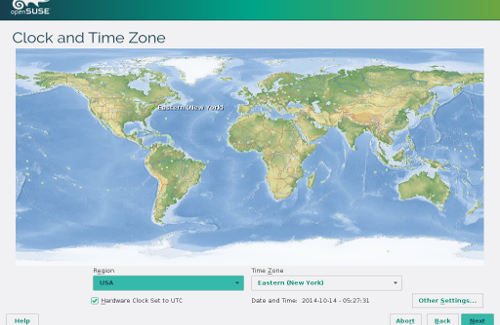
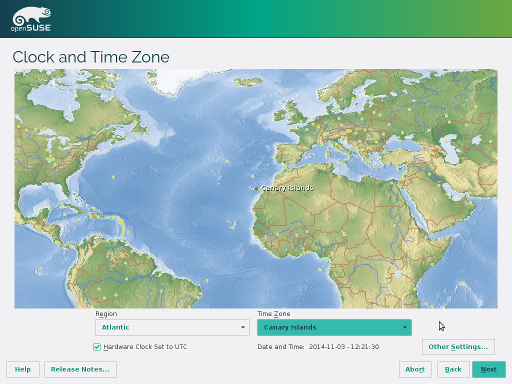
New uncropped screenshots
- 512x384px (coming from 1024x768px)

diff --git a/assets/stylesheets/overrides.css b/assets/stylesheets/overrides.css
@@ -114,7 +114,7 @@ text-align: left;
   border: 1px solid #888;
   border-radius: 4px 4px 4px 4px;
   margin:0 auto 0 auto;;
-  width: 500px;
+  width: 512px;
 
 }
 
